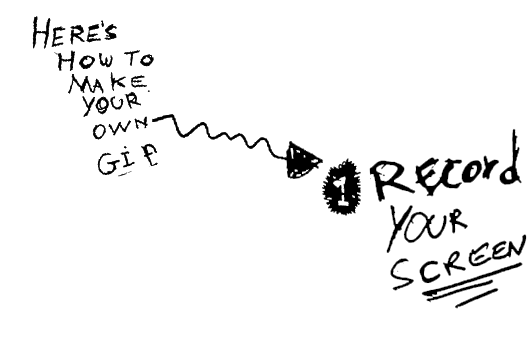
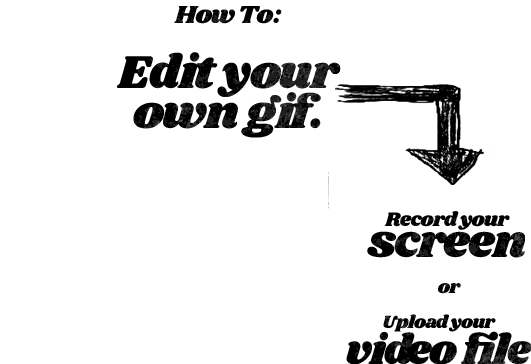
🙌Glitch Fixed!

diff --git a/src/pages/index.js b/src/pages/index.js
@@ -2,9 +2,8 @@ import React, { useState, useEffect, useRef } from 'react';
 import gsap from "gsap";
 import { createFFmpeg, fetchFile } from '@ffmpeg/ffmpeg';
 import logo from '../images/logo.png';
-import stepOne from '../images/step_1.gif';
-import stepTwo from '../images/step_2.gif';
-import stepThree from '../images/step3.gif';
+import stepOne from '../images/step_1.png';
+import stepTwo from '../images/step_2.png';
 import InFrame from '../images/In_frame.png';
 import OutFrame from '../images/out_frame.png';
 import SaveYour from '../images/saveyourGif.png';
@@ -75,7 +74,6 @@ gsap.to(arrowRef.current, {x: 0, y: 0, rotation: 40});
   useEffect(()=>{
     load();
     console.log("loaded!")
-    // sliderOut.current.value=100;
     }, [])
 
   const percent2int =(inPercentage)=>{
@@ -289,7 +287,6 @@ gsap.to(arrowRef.current, {x: 0, y: 0, rotation: 40});
     <div className='logo'><img  alt="Logo GIFTAPE" src={logo}/></div>
     <div className='stepOne'><img  alt="stepOne" src={stepOne}/></div>
     <div className='stepTwo'><img  alt="steptwo" src={stepTwo}/></div>
-    <div className='stepThree'><img  alt="stepthree" src={stepThree}/></div>
     <div className='rays'></div>
     {/* <button onClick={(e)=>stopRecording()}>STOP</button> */}
     <div className='recordScreenIcon'></div>

diff --git a/src/styles/global.css b/src/styles/global.css
@@ -117,23 +117,20 @@ body{
 
 .stepOne{
   position: absolute;
-  right: -200px;
-  top: 30px;
+  right: -100px;
+  top: 50px;
 }
 .stepOne img{
   width: 80%;
 }
 .stepTwo img{
-  width: 80%;
-}
-.stepThree img{
-  width: 80%;
+  width: 90%;
 }
 
 .stepTwo{
   position: absolute;
-  right: -160px;
-  top: 270px;
+  right: -80px;
+  top: 350px;
 }
 .stepThree{
   position: absolute;
